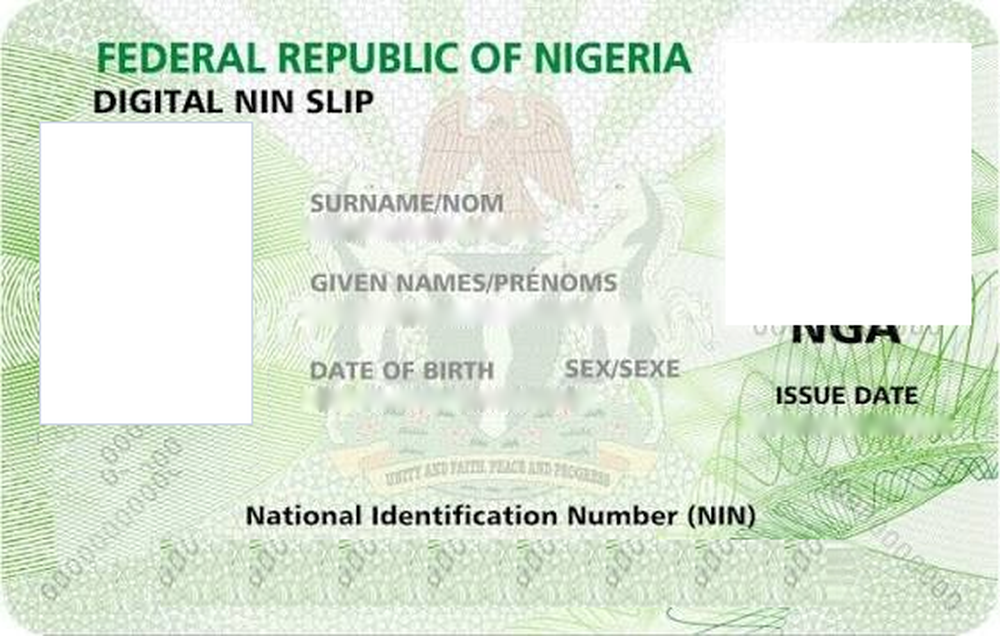
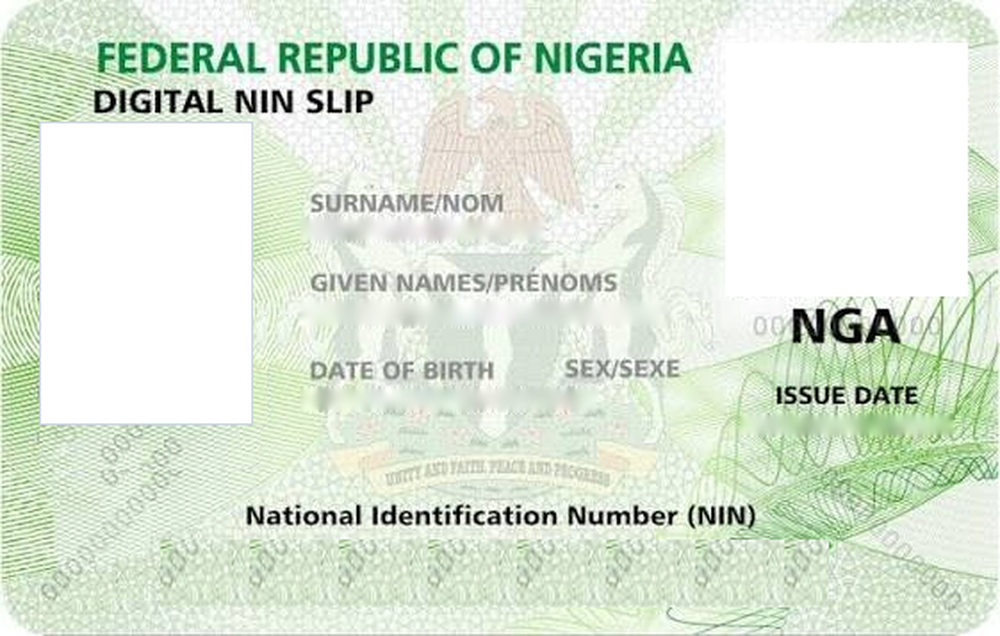
fix(nin): eliminate QR code and NGA clipping on premium slip
- Restore full NGA lettering in public/assets/images/nin_premium_bg.png by ending the QR wipe box above y=172
- Add a 2-module quiet zone in app/Support/QrCodeDataUri.php to prevent edge module clipping and ensure ISO QR scanner readability
- Co-align QR container and Issue Date in resources/views/pdf/nin_premium_slip.blade.php dead-center above NGA with clean clearances

diff --git a/resources/views/pdf/nin_premium_slip.blade.php b/resources/views/pdf/nin_premium_slip.blade.php
@@ -142,22 +142,23 @@
 
         .qr-container {
             position: absolute;
-            top: 24px;
-            right: 17px;
-            width: 118px;
-            height: 118px;
+            top: 27px;
+            right: 20px;
+            width: 114px;
+            height: 114px;
             text-align: center;
         }
 
         .qr-container img {
-            width: 118px;
-            height: 118px;
+            width: 114px;
+            height: 114px;
+            display: block;
         }
 
         .value-issue-date {
             position: absolute;
-            top: 208px;
-            right: 18px;
+            top: 206px;
+            right: 19px;
             width: 116px;
             font-size: 10px;
             font-weight: bold;

diff --git a/app/Support/QrCodeDataUri.php b/app/Support/QrCodeDataUri.php
@@ -23,7 +23,8 @@ class QrCodeDataUri
                 'outputInterface' => QRGdImagePNG::class,
                 'outputBase64' => true,
                 'scale' => $scale,
-                'addQuietzone' => false,
+                'addQuietzone' => true,
+                'quietzoneSize' => 2,
             ])))->render($data);
         } catch (\Throwable $e) {
             return null;
